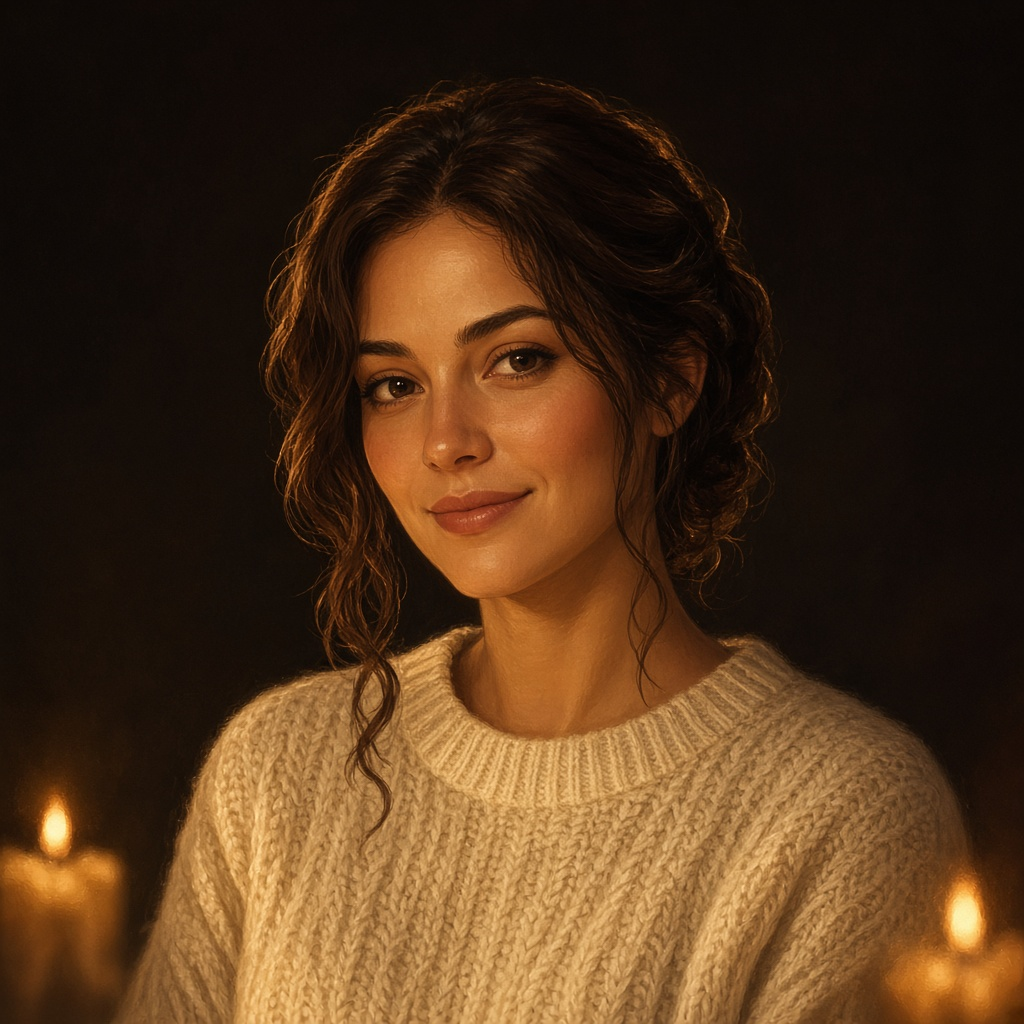
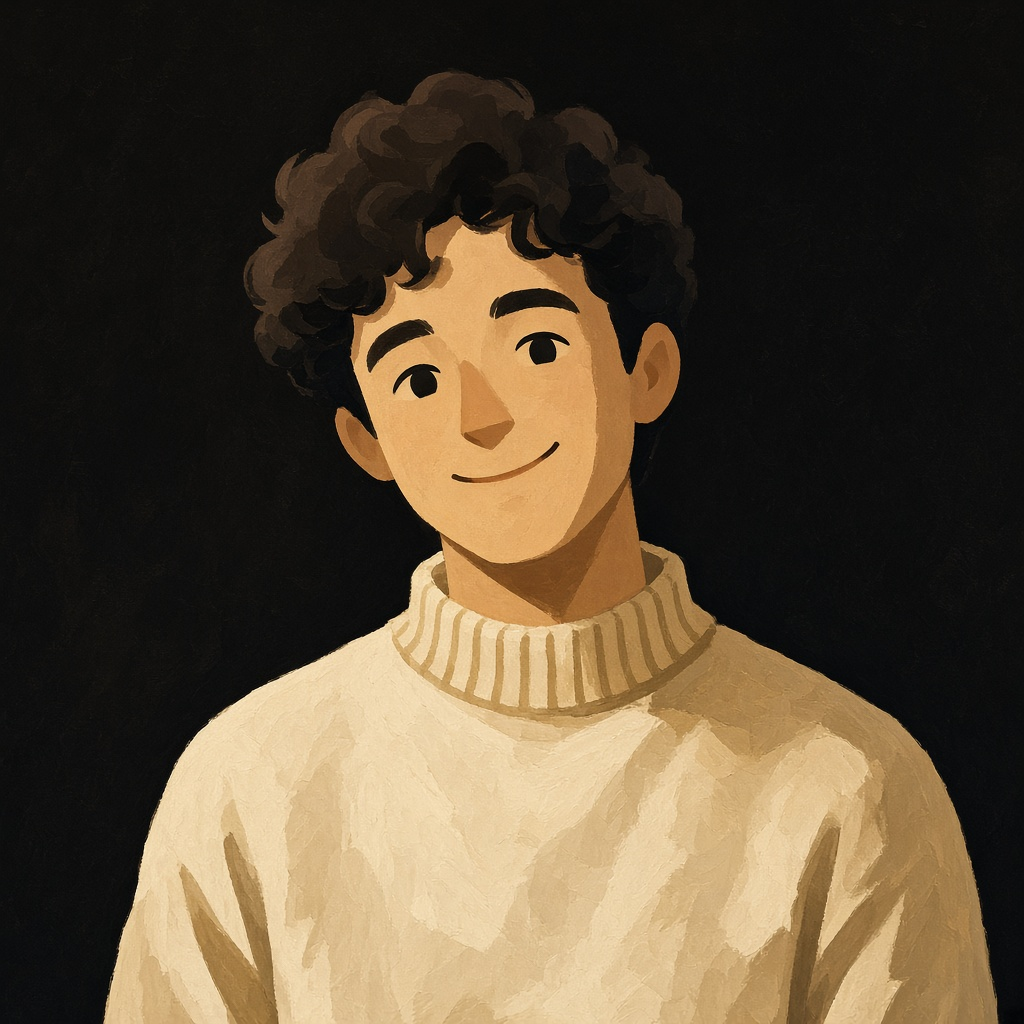
Passer les rôles en illustration et ranger les filtres dans Plus d’options.

diff --git a/src/screens/Setup.tsx b/src/screens/Setup.tsx
@@ -35,6 +35,7 @@ export function Setup({
   const [pickedId, setPickedId] = useState<string>('')
   const [difficulties, setDifficulties] = useState<Difficulty[]>(['facile', 'moyen', 'difficile'])
   const [category, setCategory] = useState('all')
+  const [moreOptions, setMoreOptions] = useState(false)
   const [error, setError] = useState('')
 
   const suggested = suggestedRoles(names.length)
@@ -230,30 +231,48 @@ export function Setup({
             </button>
           ))}
         </div>
-        <div className="filters tight">
-          <select value={category} onChange={(e) => setCategory(e.target.value)}>
-            <option value="all">Toutes les catégories</option>
-            {CATEGORIES.map((c) => (
-              <option key={c} value={c}>
-                {c}
-              </option>
-            ))}
-            {customPairs.some((p) => p.category === 'Perso') ? (
-              <option value="Perso">Perso</option>
-            ) : null}
-          </select>
-        </div>
-        <div className="diff-row">
-          {(['facile', 'moyen', 'difficile'] as const).map((level) => (
-            <button
-              key={level}
-              type="button"
-              className={difficulties.includes(level) ? 'pill active' : 'pill'}
-              onClick={() => toggleDifficulty(level)}
-            >
-              {level}
-            </button>
-          ))}
+        <div className="more-options">
+          <button
+            type="button"
+            className={moreOptions ? 'more-toggle open' : 'more-toggle'}
+            aria-expanded={moreOptions}
+            onClick={() => setMoreOptions((open) => !open)}
+          >
+            Plus d’options
+          </button>
+          {moreOptions ? (
+            <div className="more-panel">
+              <label>
+                Catégorie
+                <select value={category} onChange={(e) => setCategory(e.target.value)}>
+                  <option value="all">Toutes les catégories</option>
+                  {CATEGORIES.map((c) => (
+                    <option key={c} value={c}>
+                      {c}
+                    </option>
+                  ))}
+                  {customPairs.some((p) => p.category === 'Perso') ? (
+                    <option value="Perso">Perso</option>
+                  ) : null}
+                </select>
+              </label>
+              <div>
+                <p className="field-label">Difficulté</p>
+                <div className="diff-row">
+                  {(['facile', 'moyen', 'difficile'] as const).map((level) => (
+                    <button
+                      key={level}
+                      type="button"
+                      className={difficulties.includes(level) ? 'pill active' : 'pill'}
+                      onClick={() => toggleDifficulty(level)}
+                    >
+                      {level}
+                    </button>
+                  ))}
+                </div>
+              </div>
+            </div>
+          ) : null}
         </div>
         {source === 'pick' ? (
           <label>

diff --git a/src/index.css b/src/index.css
@@ -329,6 +329,39 @@ select:focus {
   gap: 8px;
 }
 
+.more-options {
+  display: grid;
+  gap: 10px;
+}
+
+.more-toggle {
+  justify-self: start;
+  min-height: 40px;
+  padding: 0;
+  border: 0;
+  background: none;
+  color: var(--gold);
+}
+
+.more-toggle::after {
+  content: ' ▾';
+}
+
+.more-toggle.open::after {
+  content: ' ▴';
+}
+
+.more-panel {
+  display: grid;
+  gap: 12px;
+}
+
+.field-label {
+  margin-bottom: 6px;
+  font-size: 0.82rem;
+  color: var(--muted);
+}
+
 .pair-list,
 .role-list,
 .steps,

diff --git a/public/sw.js b/public/sw.js
@@ -1,4 +1,4 @@
-const CACHE = 'undercover-v2'
+const CACHE = 'undercover-v3'
 
 self.addEventListener('install', (event) => {
   event.waitUntil(self.skipWaiting())
